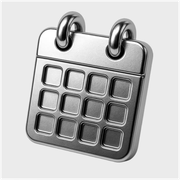
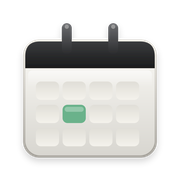
Icône native au site : SVG calendrier premium, palette de la charte
Design conçu SVG pour rester net à toutes les tailles.
- Corps : off-white cream (fbfaf6 -> d8d6d0) avec dégradé subtil, coins
  fortement arrondis (46px) pour un look SaaS moderne.
- Entête charcoal (3a3b3d -> 1a1b1c) = couleur d'encre principale du site.
- Deux anneaux argentés (binder) traversent l'entête.
- Grille 4x3 = 12 cellules très légèrement creusées.
- Une cellule accent en olive #6bb28b (la couleur d'accent du site,
  aussi utilisée pour le dot pulsé 'en cours').
- Ombre portée douce + reflet gloss en haut = subtile profondeur 3D.
- Aucun texte, chiffre ou lettre.
- Fond 100% transparent, contour anti-aliasé (rendu par resvg à 1024 px
  puis downscale Lanczos vers 32/48/64/128/180/192/256/512).

Cache-bust ?v=6 partout.

diff --git a/client/index.html b/client/index.html
@@ -9,11 +9,11 @@
   <link rel="preconnect" href="https://fonts.googleapis.com" />
   <link rel="preconnect" href="https://fonts.gstatic.com" crossorigin />
   <link href="https://fonts.googleapis.com/css2?family=Inter:wght@300;400;500;600;700&family=Inter+Tight:wght@300;400;500;600;700&display=swap" rel="stylesheet" />
-  <link rel="icon" type="image/png" sizes="32x32" href="/assets/icon-32.png?v=5" />
-  <link rel="icon" type="image/png" sizes="64x64" href="/assets/icon-64.png?v=5" />
-  <link rel="icon" type="image/png" sizes="128x128" href="/assets/icon-128.png?v=5" />
-  <link rel="icon" type="image/png" sizes="192x192" href="/assets/icon-192.png?v=5" />
-  <link rel="apple-touch-icon" href="/assets/icon-180.png?v=5" />
+  <link rel="icon" type="image/png" sizes="32x32" href="/assets/icon-32.png?v=6" />
+  <link rel="icon" type="image/png" sizes="64x64" href="/assets/icon-64.png?v=6" />
+  <link rel="icon" type="image/png" sizes="128x128" href="/assets/icon-128.png?v=6" />
+  <link rel="icon" type="image/png" sizes="192x192" href="/assets/icon-192.png?v=6" />
+  <link rel="apple-touch-icon" href="/assets/icon-180.png?v=6" />
 </head>
 <body>
   <div class="ambient"></div>
@@ -28,7 +28,7 @@
       </header>
 
       <div class="user-card">
-        <div class="user-avatar"><img src="/assets/icon-128.png?v=5" alt="" /></div>
+        <div class="user-avatar"><img src="/assets/icon-128.png?v=6" alt="" /></div>
         <div class="user-meta">
           <span class="user-name">Planning M2 BTI</span>
           <span class="user-mail" id="source-file" title="Fichier Excel synchronisé depuis AMU box">source : planning.xlsx</span>

diff --git a/client/comparateur.html b/client/comparateur.html
@@ -10,11 +10,11 @@
   <link rel="preconnect" href="https://fonts.googleapis.com" />
   <link rel="preconnect" href="https://fonts.gstatic.com" crossorigin />
   <link href="https://fonts.googleapis.com/css2?family=Inter:wght@300;400;500;600;700&family=Inter+Tight:wght@300;400;500;600;700&display=swap" rel="stylesheet" />
-  <link rel="icon" type="image/png" sizes="32x32" href="/assets/icon-32.png?v=5" />
-  <link rel="icon" type="image/png" sizes="64x64" href="/assets/icon-64.png?v=5" />
-  <link rel="icon" type="image/png" sizes="128x128" href="/assets/icon-128.png?v=5" />
-  <link rel="icon" type="image/png" sizes="192x192" href="/assets/icon-192.png?v=5" />
-  <link rel="apple-touch-icon" href="/assets/icon-180.png?v=5" />
+  <link rel="icon" type="image/png" sizes="32x32" href="/assets/icon-32.png?v=6" />
+  <link rel="icon" type="image/png" sizes="64x64" href="/assets/icon-64.png?v=6" />
+  <link rel="icon" type="image/png" sizes="128x128" href="/assets/icon-128.png?v=6" />
+  <link rel="icon" type="image/png" sizes="192x192" href="/assets/icon-192.png?v=6" />
+  <link rel="apple-touch-icon" href="/assets/icon-180.png?v=6" />
 </head>
 <body>
   <div class="ambient"></div>
@@ -26,7 +26,7 @@
       </header>
 
       <div class="user-card">
-        <div class="user-avatar"><img src="/assets/icon-128.png?v=5" alt="" /></div>
+        <div class="user-avatar"><img src="/assets/icon-128.png?v=6" alt="" /></div>
         <div class="user-meta">
           <span class="user-name">Comparateur</span>
           <span class="user-mail">Excel ↔ ADE</span>

diff --git a/client/admin/index.html b/client/admin/index.html
@@ -7,11 +7,11 @@
   <title>Enseignant · Planning M2 BTI</title>
   <link rel="stylesheet" href="/css/app.css" />
   <link rel="stylesheet" href="/constructeur/admin.css" />
-  <link rel="icon" type="image/png" sizes="32x32" href="/assets/icon-32.png?v=5" />
-  <link rel="icon" type="image/png" sizes="64x64" href="/assets/icon-64.png?v=5" />
-  <link rel="icon" type="image/png" sizes="128x128" href="/assets/icon-128.png?v=5" />
-  <link rel="icon" type="image/png" sizes="192x192" href="/assets/icon-192.png?v=5" />
-  <link rel="apple-touch-icon" href="/assets/icon-180.png?v=5" />
+  <link rel="icon" type="image/png" sizes="32x32" href="/assets/icon-32.png?v=6" />
+  <link rel="icon" type="image/png" sizes="64x64" href="/assets/icon-64.png?v=6" />
+  <link rel="icon" type="image/png" sizes="128x128" href="/assets/icon-128.png?v=6" />
+  <link rel="icon" type="image/png" sizes="192x192" href="/assets/icon-192.png?v=6" />
+  <link rel="apple-touch-icon" href="/assets/icon-180.png?v=6" />
 </head>
 <body>
   <div id="login-view" class="login-view">
